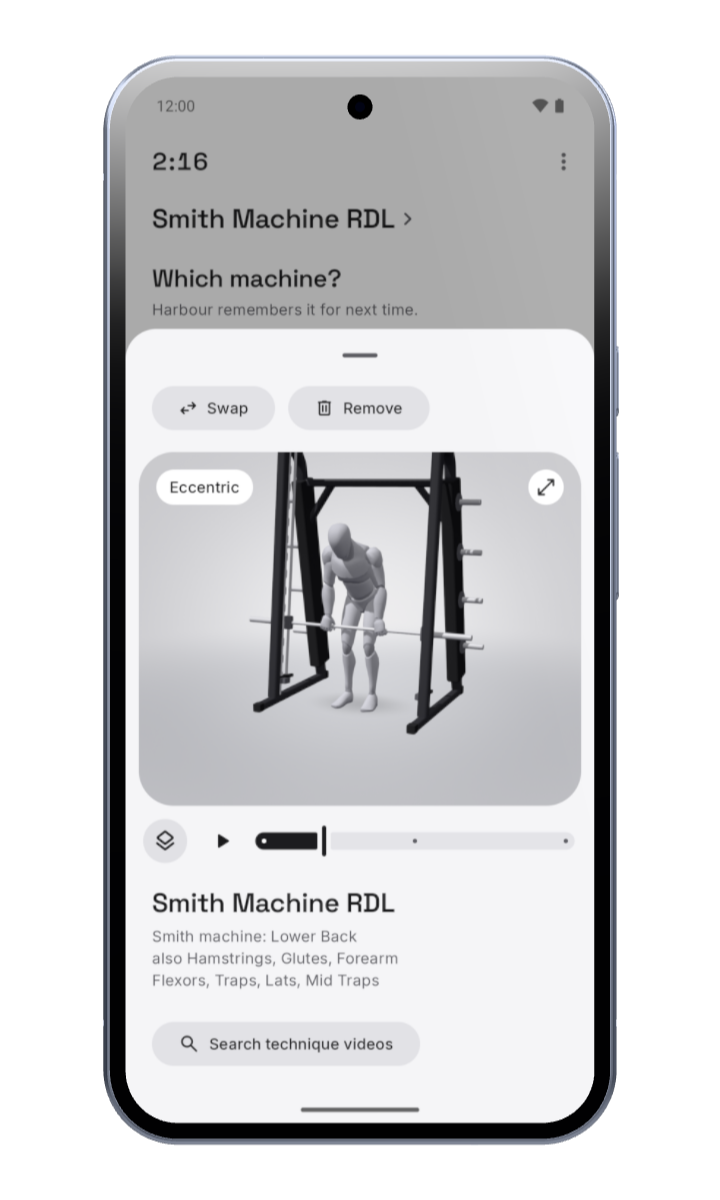
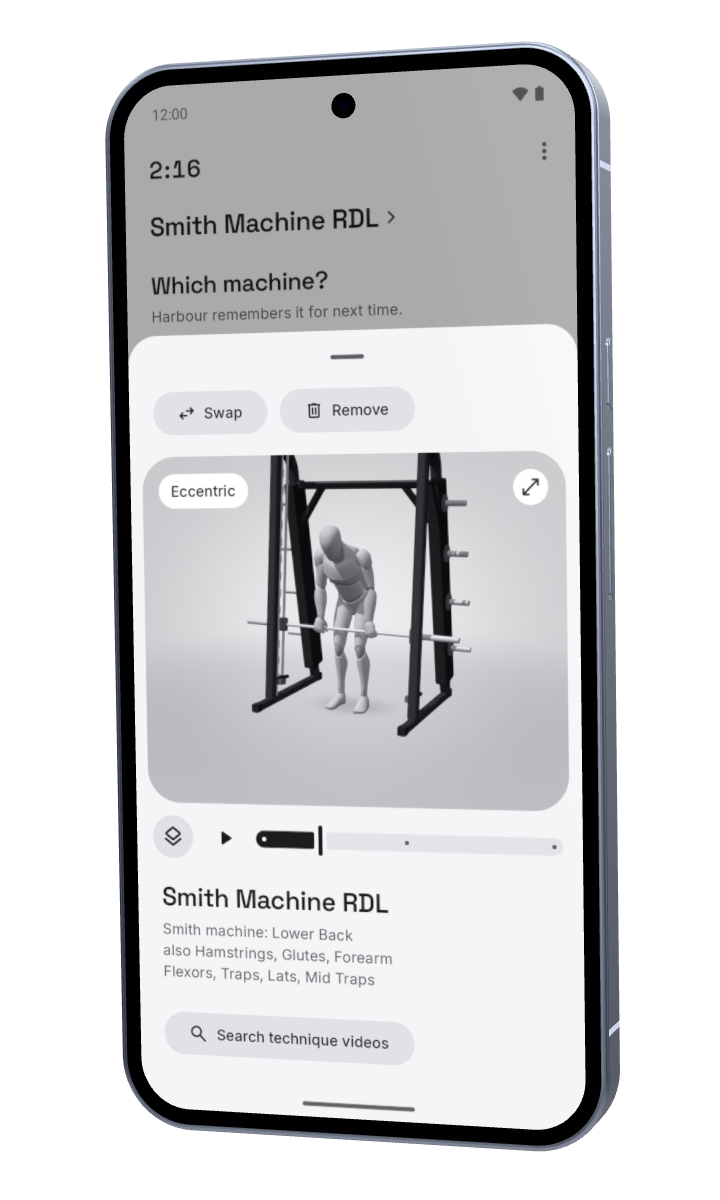
feat: rest the phone side on and list the app at a glance (#580)
The owner, live: the phone rests a little side on, as it used to, opening turned further round. The five boxed cards under the buttons are now a ruled list.

From the review: the canvas takes the picture's place only once it has a screen; a link to a section lands it on the first of its screens; the picture goes once the canvas is mostly in, and matches it in a window taller than wide too. The theme test now measures the phone's screen, which it didn't before.

diff --git a/src/phone/phone.js b/src/phone/phone.js
@@ -36,11 +36,13 @@ const BEZEL = 3.2;
 const SCREEN_WIDTH = WIDTH - 2 * BEZEL;
 const SCREEN_HEIGHT = (SCREEN_WIDTH * 1428) / 640;
 const FIELD_OF_VIEW = 30;
+/** The share of the canvas's height the phone takes when it faces the reader. */
+export const FILL = 0.74;
 
 /** How the phone stands, in radians: `open` is how the page opens, `front` is where it rests. */
 export const POSES = {
-  open: { yaw: -0.5, pitch: 0.1, roll: -0.04 },
-  front: { yaw: 0, pitch: 0, roll: 0 },
+  open: { yaw: -0.7, pitch: 0.1, roll: -0.04 },
+  front: { yaw: -0.3, pitch: 0.05, roll: 0 },
 };
 
 /** The body's colours by the page's theme: a charcoal phone on the dark page, a moonstone one on the light. */
@@ -94,8 +96,7 @@ const SCREEN_VERTEX = `
 `;
 
 // The screen lights itself: no lamp or tone mapping changes the app's colours. The glass over it
-// throws back one soft band of light, which comes onto the screen from its upper right as the
-// phone turns into place, and rests there.
+// throws back one soft band of light, which crosses the screen as the phone turns.
 const SCREEN_FRAGMENT = `
   uniform sampler2D from;
   uniform sampler2D to;
@@ -104,7 +105,7 @@ const SCREEN_FRAGMENT = `
   varying float vTurn;
   void main() {
     vec3 shown = mix(texture2D(from, vUv).rgb, texture2D(to, vUv).rgb, blend);
-    float across = vUv.x * 0.8 + vUv.y * 0.45 - 0.85 + vTurn * 2.2;
+    float across = vUv.x * 0.8 + vUv.y * 0.45 - 0.2 + vTurn * 2.2;
     float glare = smoothstep(0.0, 0.3, across) * (1.0 - smoothstep(0.3, 0.75, across));
     gl_FragColor = vec4(shown + glare * 0.028, 1.0);
     #include <colorspace_fragment>
@@ -300,11 +301,8 @@ function buildFront(screen) {
   return front;
 }
 
-/**
- * Draws the phone into `canvas`, on a clear background. `fill` is the share of the canvas's
- * height the phone takes when it faces the reader.
- */
-export function createPhone(canvas, { fill = 0.74, pixelRatio = 1 } = {}) {
+/** Draws the phone into `canvas`, on a clear background. */
+export function createPhone(canvas, { pixelRatio = 1 } = {}) {
   const renderer = new WebGLRenderer({ canvas, alpha: true, antialias: true });
   renderer.setPixelRatio(pixelRatio);
   renderer.toneMapping = NeutralToneMapping;
@@ -338,7 +336,7 @@ export function createPhone(canvas, { fill = 0.74, pixelRatio = 1 } = {}) {
   phone.add(shell, buildFront(screen), buildBack(body), buildEdges(body));
   phone.rotation.order = "YXZ";
   scene.add(phone);
-  // A lamp up and to the left for the matte back, and one behind to catch the frame's edge.
+  // A lamp up and to the left, and one behind to catch the frame's edge.
   const key = new DirectionalLight(0xffffff, 1.1);
   key.position.set(-90, 140, 220);
   const edge = new DirectionalLight(0xdfe6ff, 1.0);
@@ -353,9 +351,11 @@ export function createPhone(canvas, { fill = 0.74, pixelRatio = 1 } = {}) {
     setSize(width, height) {
       renderer.setSize(width, height, false);
       camera.aspect = width / height;
-      // Tall enough for the phone, and wide enough for it at any turn.
-      const tall = Math.max(HEIGHT / fill, (WIDTH * 1.25) / camera.aspect);
+      // Tall enough for the phone, and wide enough for it at any turn. A narrow canvas zooms out
+      // from the same spot, so the phone keeps the perspective of the picture drawn ahead of time.
+      const tall = HEIGHT / FILL;
       camera.position.z = tall / (2 * Math.tan((FIELD_OF_VIEW * Math.PI) / 360));
+      camera.zoom = Math.min(1, (tall * camera.aspect) / (WIDTH * 1.25));
       camera.updateProjectionMatrix();
     },
     /** The body's colour: "dark" or "light", after the page's theme. */

diff --git a/scripts/stills.html b/scripts/stills.html
@@ -11,25 +11,25 @@
 </script>
 <canvas></canvas>
 <script type="module">
-  import { createPhone, POSES } from "/src/phone/phone.js";
+  import { createPhone, FILL, POSES } from "/src/phone/phone.js";
 
-  // The home page's camera (`fill`), so a still has the live phone's perspective and the one
-  // holding its place doesn't jump when the model arrives. A still is the middle of that picture,
-  // with the phone taking `TALL` of the still's height (Home.astro sizes the holding one by both).
-  const FILL = 0.74;
-  const TALL = 0.9;
+  // A still is the middle of the picture the home page's camera takes, so it has the live phone's
+  // perspective and the one holding its place doesn't jump when the model arrives. The phone takes
+  // `SHARE` of a still's height (Home.astro sizes the holding one by this and `FILL`).
+  const SHARE = 0.9;
   const drawn = document.querySelector("canvas");
-  const phone = createPhone(drawn, { fill: FILL });
+  const phone = createPhone(drawn);
   /** A PNG of a theme's phone in a pose, with the screenshot at `shot` on its screen. */
   window.still = async (pose, theme, width, height, shot) => {
-    const [wide, high] = [width, height].map((side) => Math.round((side * TALL) / FILL));
+    const [wide, high] = [width, height].map((side) => Math.round((side * SHARE) / FILL));
     phone.setSize(wide, high);
     phone.setFinish(theme);
     phone.setPose(POSES[pose]);
     phone.setScreen(await phone.loadScreen(shot));
     phone.render();
     const still = Object.assign(document.createElement("canvas"), { width, height });
-    still.getContext("2d").drawImage(drawn, (width - wide) / 2, (height - high) / 2);
+    // On whole pixels, so nothing is resampled.
+    still.getContext("2d").drawImage(drawn, Math.round((width - wide) / 2), Math.round((height - high) / 2));
     return still.toDataURL("image/png");
   };
 </script>

diff --git a/src/phone/story.js b/src/phone/story.js
@@ -6,12 +6,13 @@ const clamp = (value, low, high) => Math.min(high, Math.max(low, value));
 // How much scroll the phone's turn into place takes, as a share of the view's height.
 const TURN = 1 / 4;
 // A section takes the phone as it crosses this far down the view: by then it is mostly in view.
-// No higher up than the middle, or a section still whole in view could lose the phone to the next.
+// Any lower than the middle, and a section still whole in view could lose the phone to the next;
+// any higher, and one whole but low in the view might not have it yet.
 const LINE = 1 / 2;
 
 /**
- * `turn` runs from 0 (the phone a little turned away, as the page opens) to 1 (in place, facing the
- * reader) over the first `TURN` of a view of scroll, and stays there. `screen` is that of the
+ * `turn` runs from 0 (the phone turned further away, as the page opens) to 1 (in place, a little
+ * side on to the reader) over the first `TURN` of a view of scroll, and stays there. `screen` is that of the
  * feature section lying across `LINE`, or Today above the first. A section with several `screens`
  * shows them in turn, an equal share of its height each.
  * `sections` are in page order, their `top` and `bottom` measured from the top of the page.

diff --git a/src/phone/stage.js b/src/phone/stage.js
@@ -86,13 +86,14 @@ export function startStage(stage) {
     });
     phone.render();
 
-    // What the canvas shows, for a reader who can't see it and for the tests.
+    // What the canvas shows, for a reader who can't see it and for the tests. It is ready to take
+    // the picture's place only once it has a screen.
     const showing = shown?.split(":")[0];
     if (showing) {
       stage.dataset.screen = showing;
       canvas.setAttribute("aria-label", screens[showing].alt);
+      stage.dataset.ready = "";
     }
-    stage.dataset.ready = "";
 
     if (change && t >= 1) change = null;
     if (change || (wanted !== shown && loaded.has(wanted))) redraw();

diff --git a/README.md b/README.md
@@ -50,9 +50,9 @@ Write for users, in plain English, from the app as it is. A new page goes in the
 `src/components/Home.astro` is the top of the home page: the pitch, then what the app does, section by section, beside
 one phone. `index.mdx` holds the pitch's words and buttons, and everything below the phone.
 
-On a wide screen the phone is a 3D model drawn with three.js (`src/phone/`): it opens a little
-turned away, turns to face the reader over the first quarter of a view of scroll, and from there on
-stands still, pinned, while each section's screen crossfades onto it as the section comes into view.
+On a wide screen the phone is a 3D model drawn with three.js (`src/phone/`): it opens turned a
+little further away, turns into place, slightly side on, over the first quarter of a view of
+scroll, and from there on stands still, pinned, while each section's screen crossfades onto it as the section reaches the middle of the view.
 Every section's words read at full strength. `phone.js` is the model, a Pixel 10 Pro's shape built
 from plain geometry, with no maker's logo and nothing downloaded, and holds its two poses. `story.js`
 says what the phone shows at a scroll position, how long its turn takes and where a section takes
